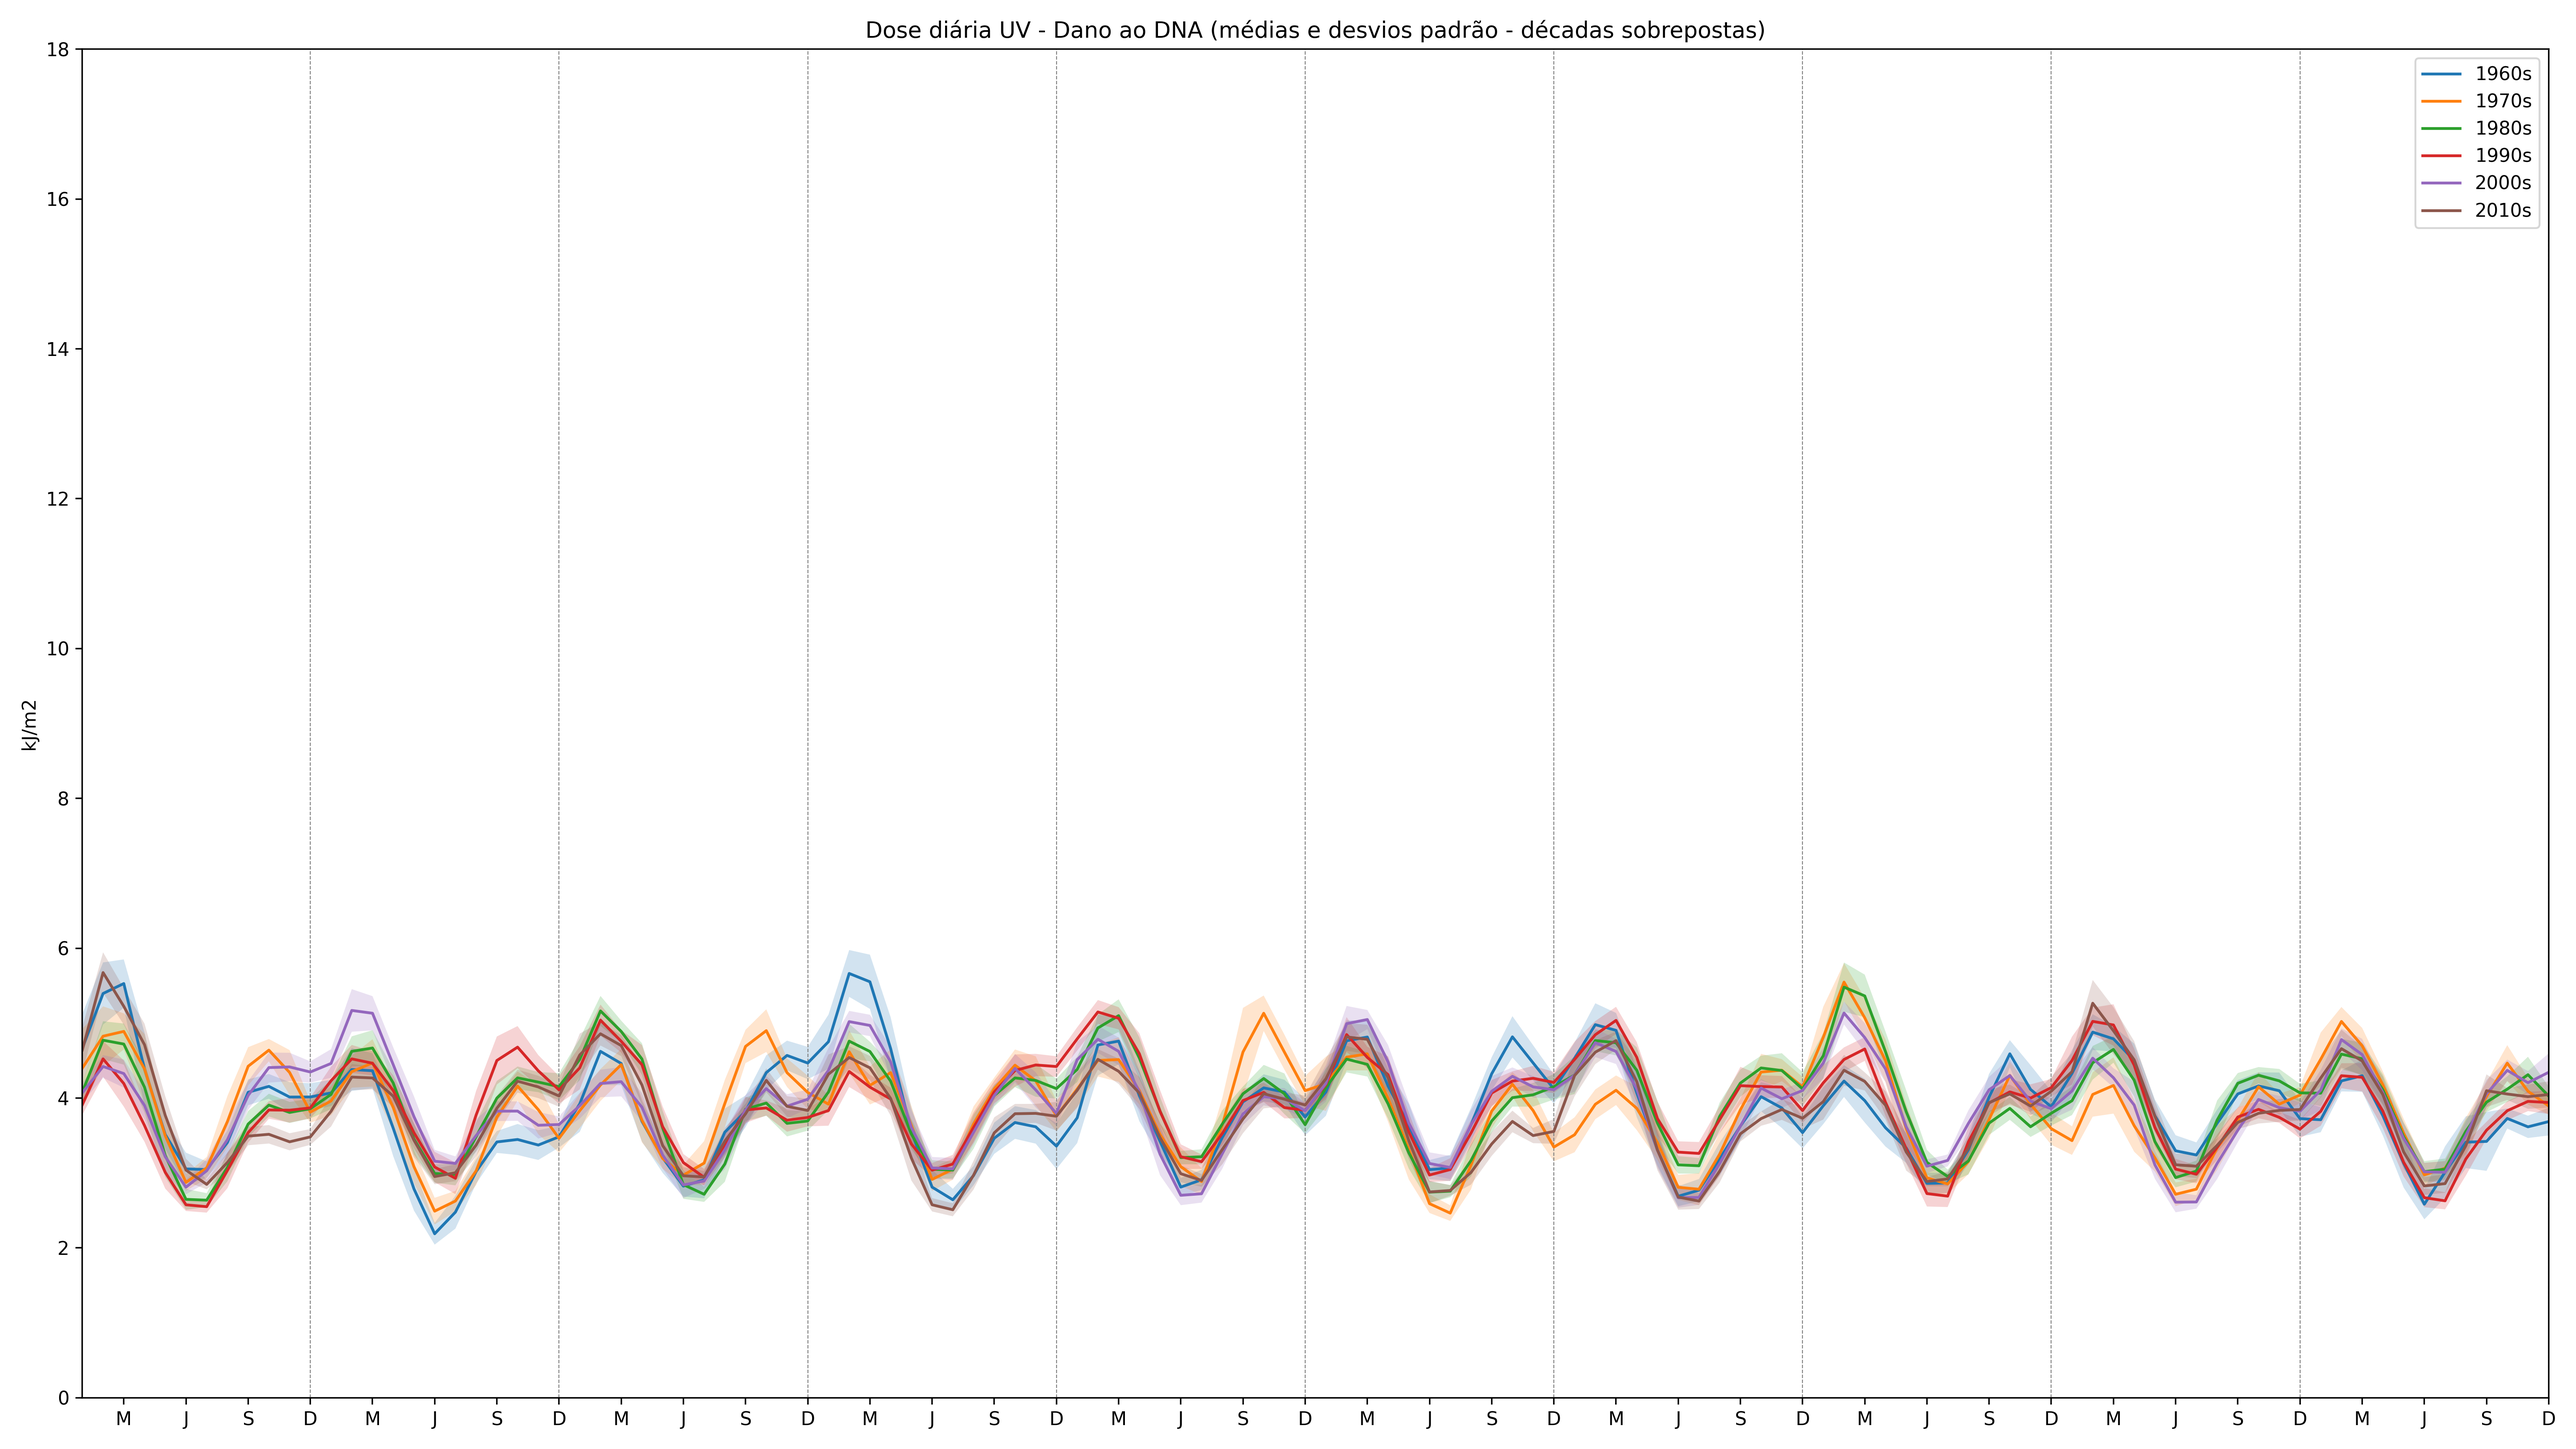
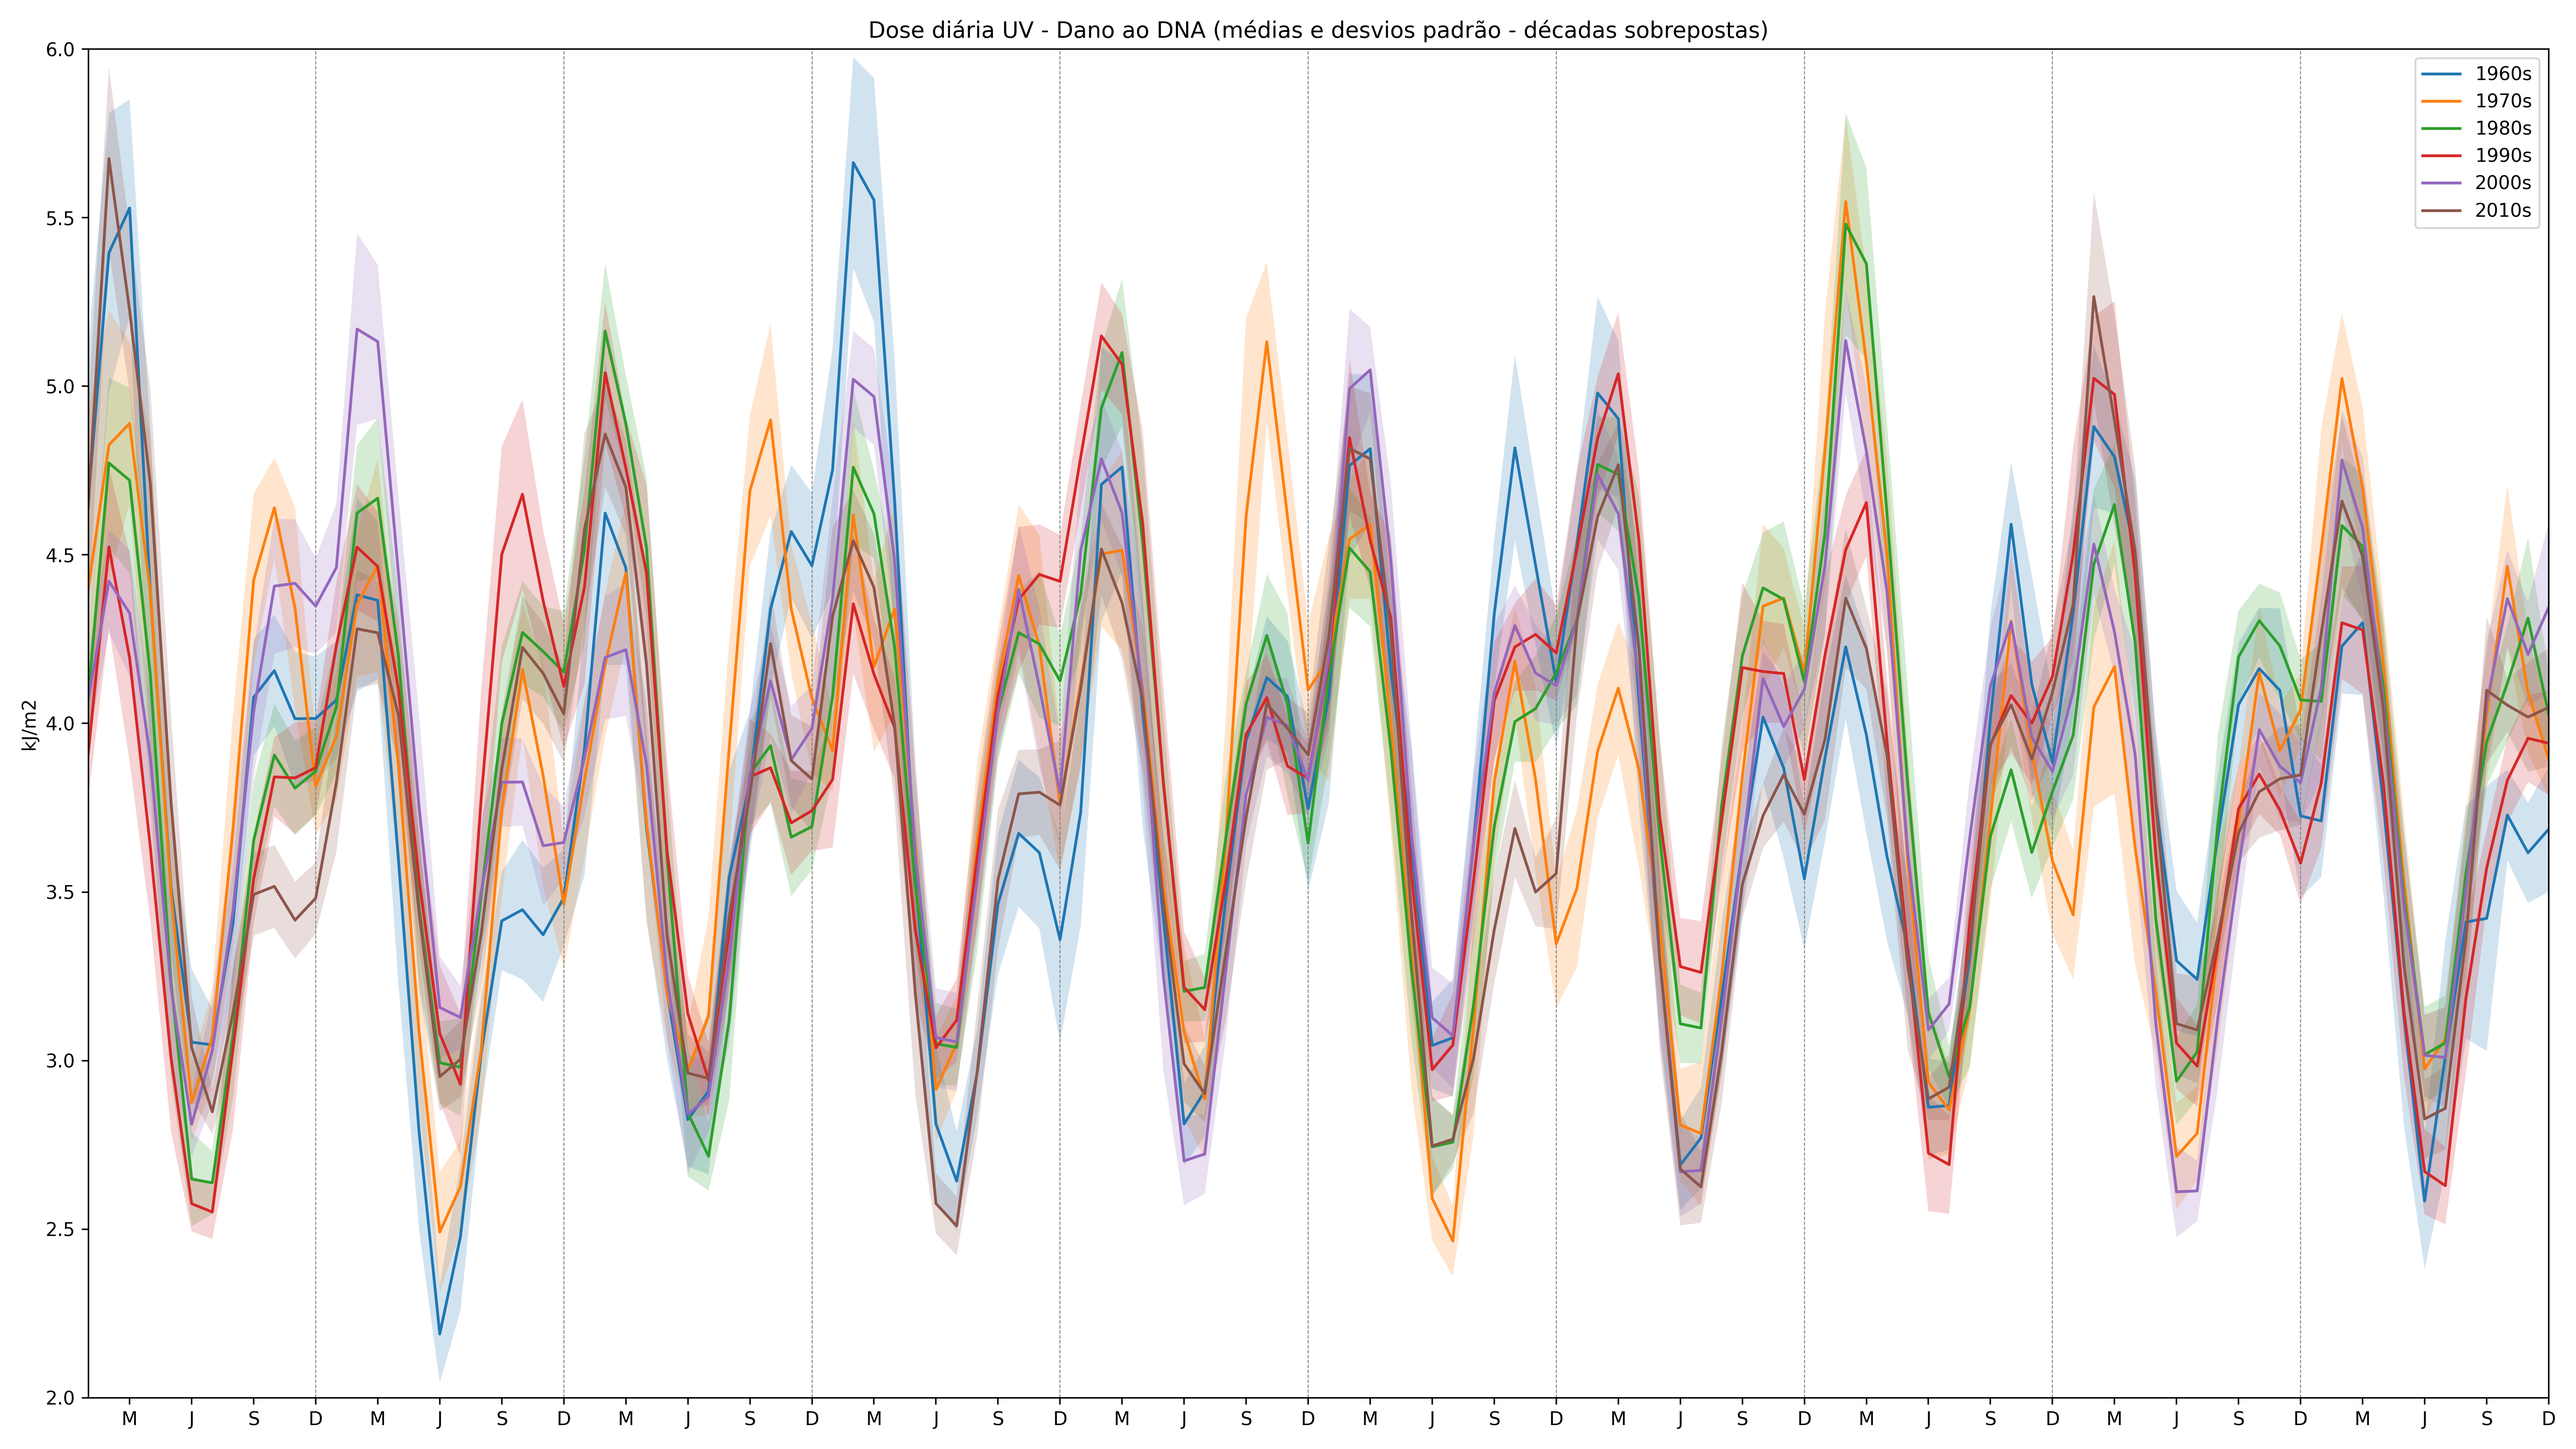
Pequenos ajustes no código 'decadas.py'.

Changed region(s): [[0.0312, 0.0312, 1.0, 0.9375], [0.3438, 0.0, 0.6875, 0.0312]]

diff --git a/decadas.py b/decadas.py
@@ -2,6 +2,7 @@ import pandas as pd
 import matplotlib.pyplot as plt
 import numpy as np
 
+
 # Carregando dados
 caminho = "/home/santiago/Projetos/temis-uvi/dados/Maracanau.csv"
 uv = pd.read_csv(caminho, skiprows=1, na_values=-999.0, parse_dates=['data'])
@@ -13,8 +14,8 @@ descricoes = ['Índice UV ao meio dia local',
               'Dose diária UV - Vitamina D', 
               'Dose diária UV - Eritemal', 
               'Dose diária UV - Dano ao DNA']
-minimos = [0., 0., 0., 0.]
-maximos = [18., 18., 18., 18.]
+minimos = [0., 7., 3.5, 2.]
+maximos = [18., 17., 8.5, 6.]
 
 # Dicionário com metadados das variáveis
 variaveis = {
@@ -24,10 +25,6 @@ variaveis = {
     'minimo': minimos,
     'maximo': maximos
 }
-
-# Rótulos de meses nos gráficos
-rotulos_meses = ['M', 'J', 'S', 'D'] * 10
-posicoes_meses = np.arange(3, 121, 3)
 
 # Novas colunas para organizar por década e por mês
 uv['decada'] = (uv['data'].dt.year // 10) * 10
@@ -45,8 +42,11 @@ for i, variavel in enumerate(variaveis['sigla']):
         plt.axvline(x=ano, color='gray', linestyle='--', linewidth=0.5)
 
     # Customizações
-    plt.xticks(posicoes_meses, rotulos_meses)
-    plt.title(f'{variaveis['descricao'][i]} (médias e desvios padrão - décadas sobrepostas)')
+    plt.xticks(np.arange(3, 121, 3), ['M', 'J', 'S', 'D'] * 10)
+    plt.title(
+        f"{variaveis['descricao'][i]} "
+        "(médias e desvios padrão - décadas sobrepostas)"
+    )
     plt.xlim(1, 120)
     plt.ylabel(variaveis['unidade'][i])
     plt.ylim(variaveis['minimo'][i], variaveis['maximo'][i])
